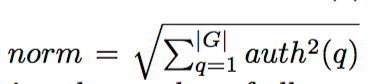
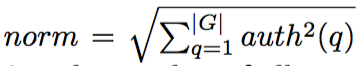
reorganizing repository

diff --git a/README.md b/README.md
@@ -1,7 +1,7 @@
 ## Implementation of HITS algorithm in Hive, Spark and SparkSQL
 
 <p align="center">
-	<img src="https://github.com/jaimeps/hits-algorithm/blob/master/images/wiki.png" width="200">
+	<img src="https://github.com/jaimeps/hits-algorithm/blob/master/images/wiki.png" width="150">
 </p>
 
 ### Description
@@ -25,12 +25,12 @@ After initialization, the process consists of:
 - Updating the hub scores: <br />
 <img src="https://github.com/jaimeps/hits-algorithm/blob/master/images/update_hubs.png" width="200"> <br />
 - Normalizing the authority scores <br />
-<img src="https://github.com/jaimeps/hits-algorithm/blob/master/images/norm_auths.png" width="200"> <br />
-where
+<img src="https://github.com/jaimeps/hits-algorithm/blob/master/images/norm_auths.png" width="250"> <br />
+where <br />
 <img src="https://github.com/jaimeps/hits-algorithm/blob/master/images/norm_auths2.png" width="200"> <br />
 - Normalizing the hub scores <br />
-<img src="https://github.com/jaimeps/hits-algorithm/blob/master/images/norm_hubs.png" width="200"> <br />
-where
+<img src="https://github.com/jaimeps/hits-algorithm/blob/master/images/norm_hubs.png" width="250"> <br />
+where <br />
 <img src="https://github.com/jaimeps/hits-algorithm/blob/master/images/norm_hubs_2.png" width="200"> <br />
 - Iterate
 
